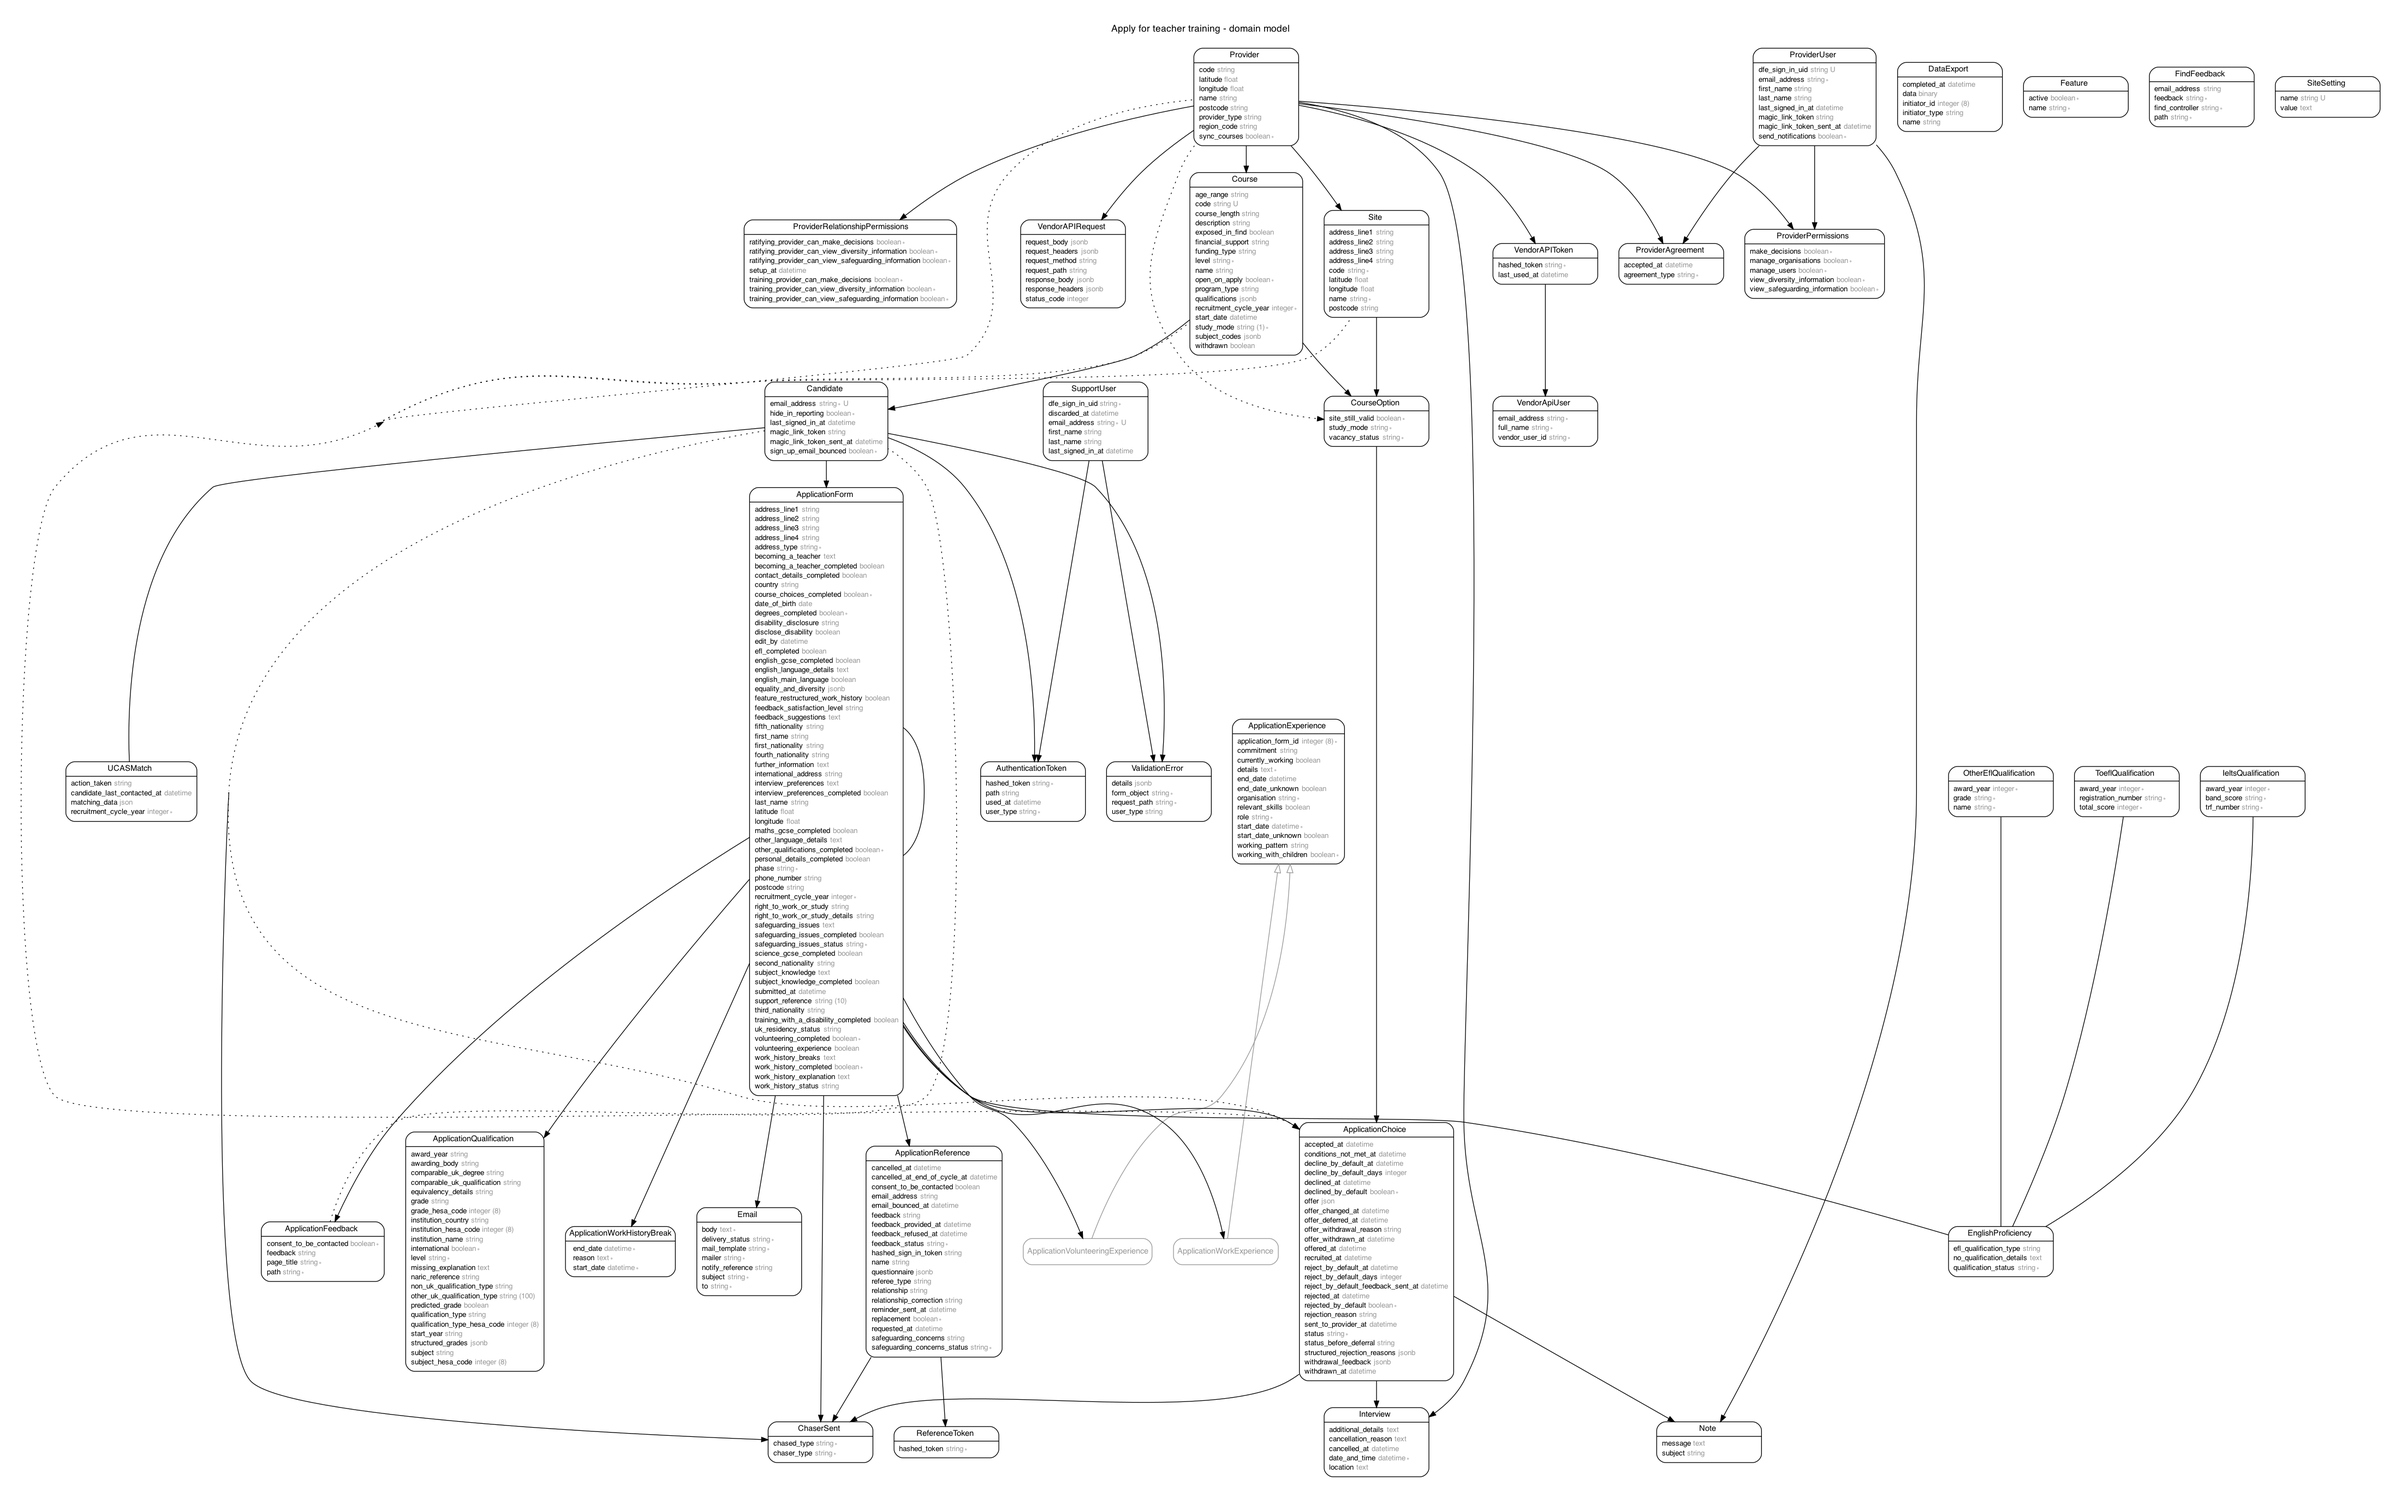
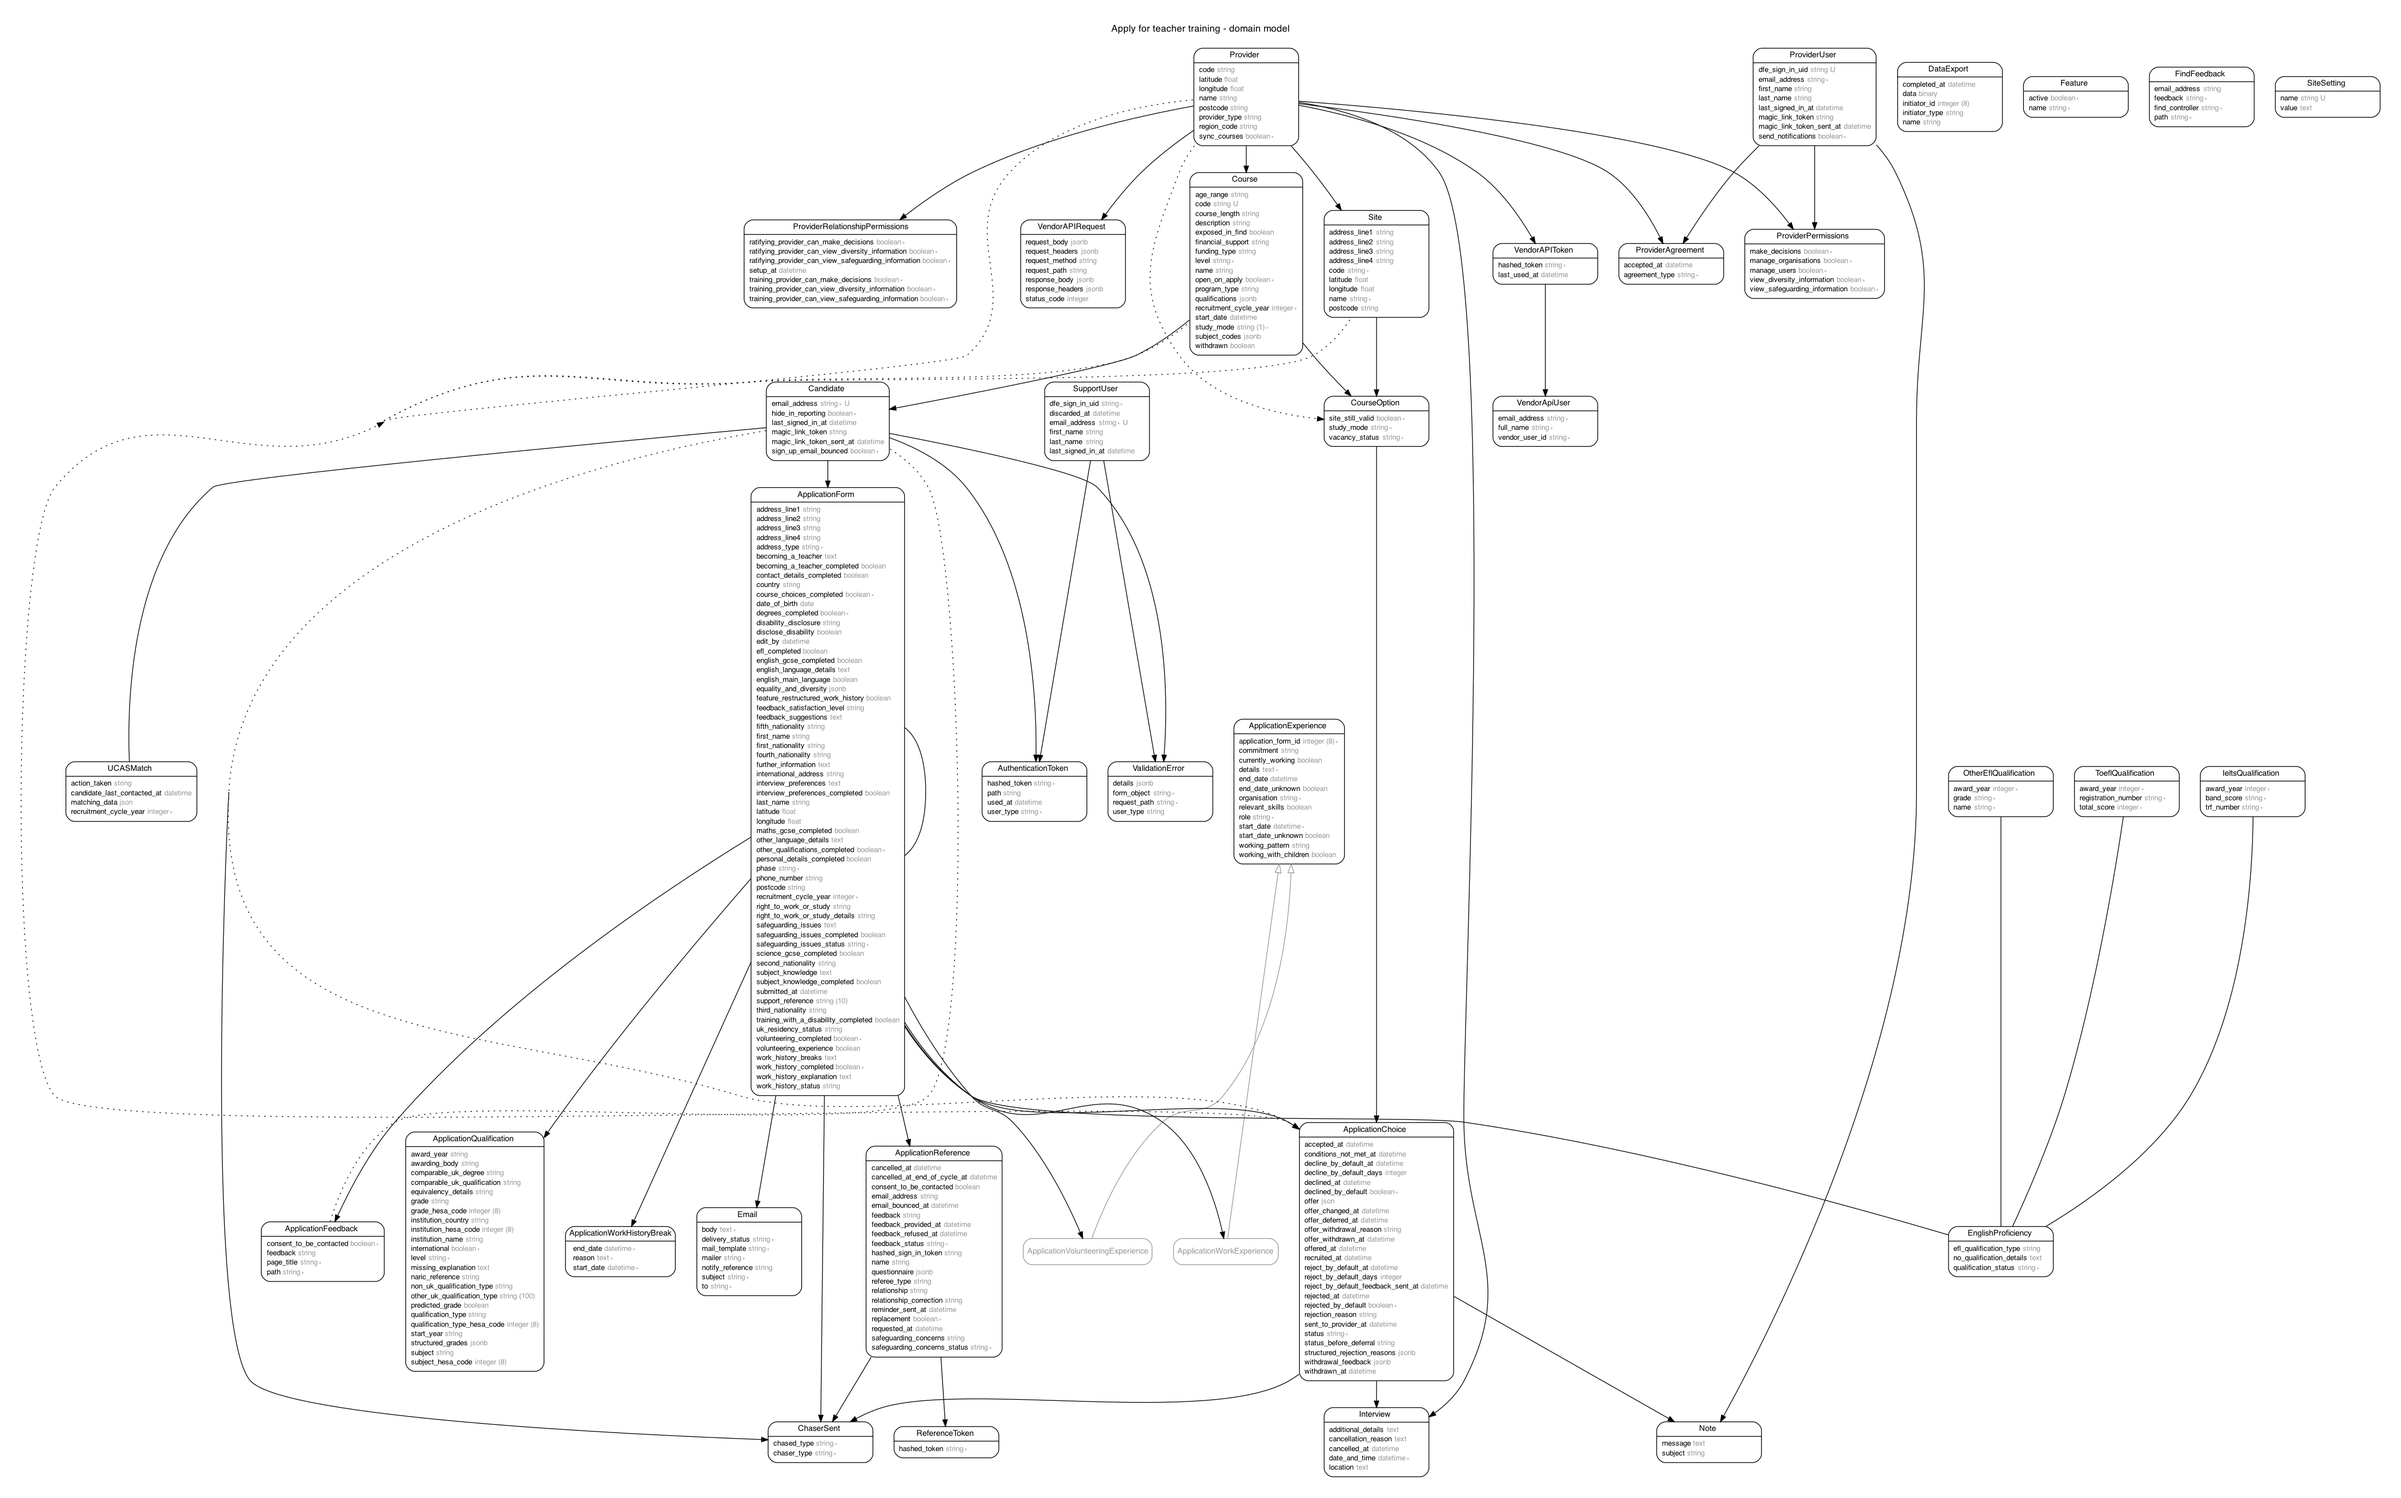
Remove null constraints from the application_experiences table
In order to implement the new restructured work history work flow we need to remove the null constraints on the 'working_with_children' and 'description' columns

diff --git a/db/schema.rb b/db/schema.rb
@@ -10,7 +10,7 @@
 #
 # It's strongly recommended that you check this file into your version control system.
 
-ActiveRecord::Schema.define(version: 2021_01_27_122508) do
+ActiveRecord::Schema.define(version: 2021_01_29_135146) do
 
   # These are extensions that must be enabled in order to support this database
   enable_extension "pgcrypto"
@@ -57,8 +57,8 @@ ActiveRecord::Schema.define(version: 2021_01_27_122508) do
     t.string "type", null: false
     t.string "role", null: false
     t.string "organisation", null: false
-    t.text "details", null: false
-    t.boolean "working_with_children", null: false
+    t.text "details"
+    t.boolean "working_with_children"
     t.datetime "start_date", null: false
     t.datetime "end_date"
     t.string "commitment"

diff --git a/db/migrate/20210129135146_remove_null_constraints_from_application_experiences.rb b/db/migrate/20210129135146_remove_null_constraints_from_application_experiences.rb
@@ -1,0 +1,6 @@
+class RemoveNullConstraintsFromApplicationExperiences < ActiveRecord::Migration[6.0]
+  def change
+    change_column_null :application_experiences, :details, true
+    change_column_null :application_experiences, :working_with_children, true
+  end
+end
